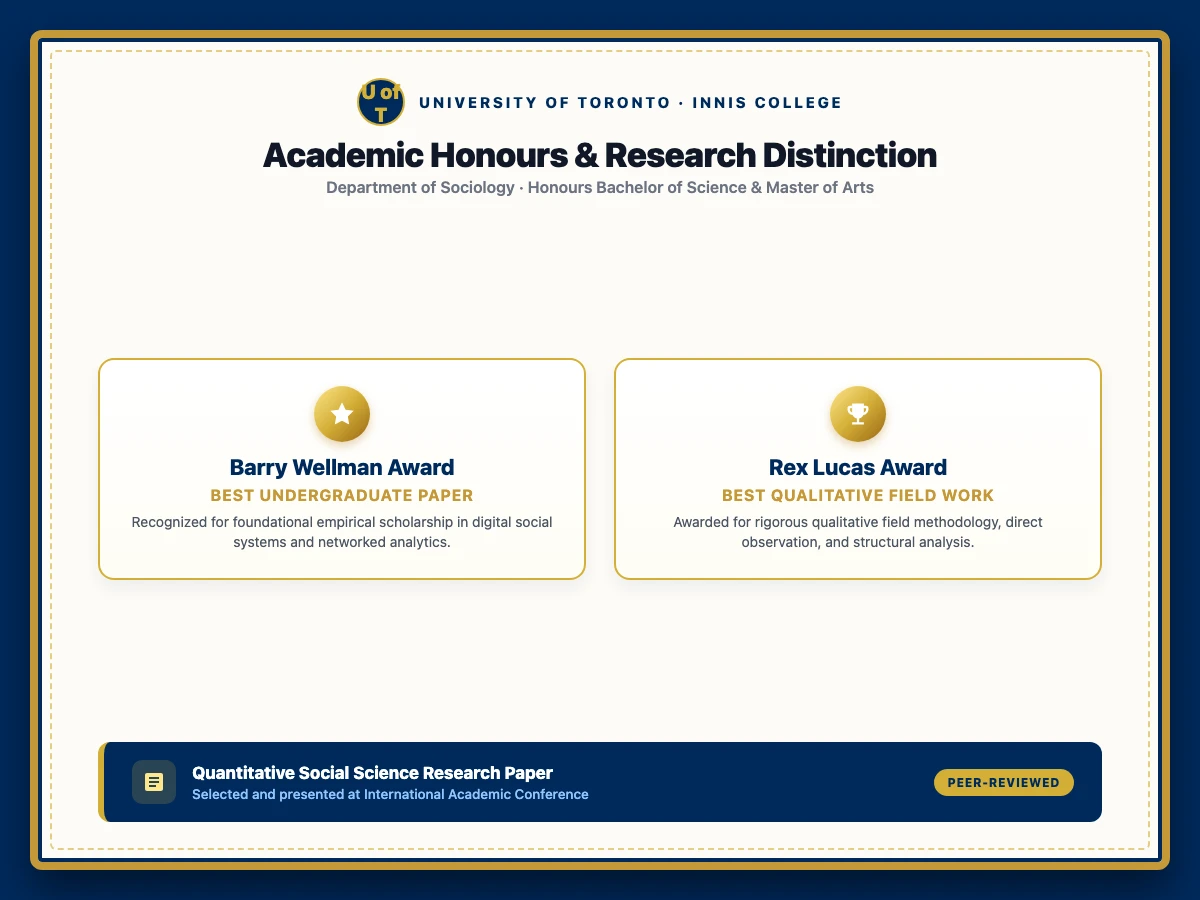
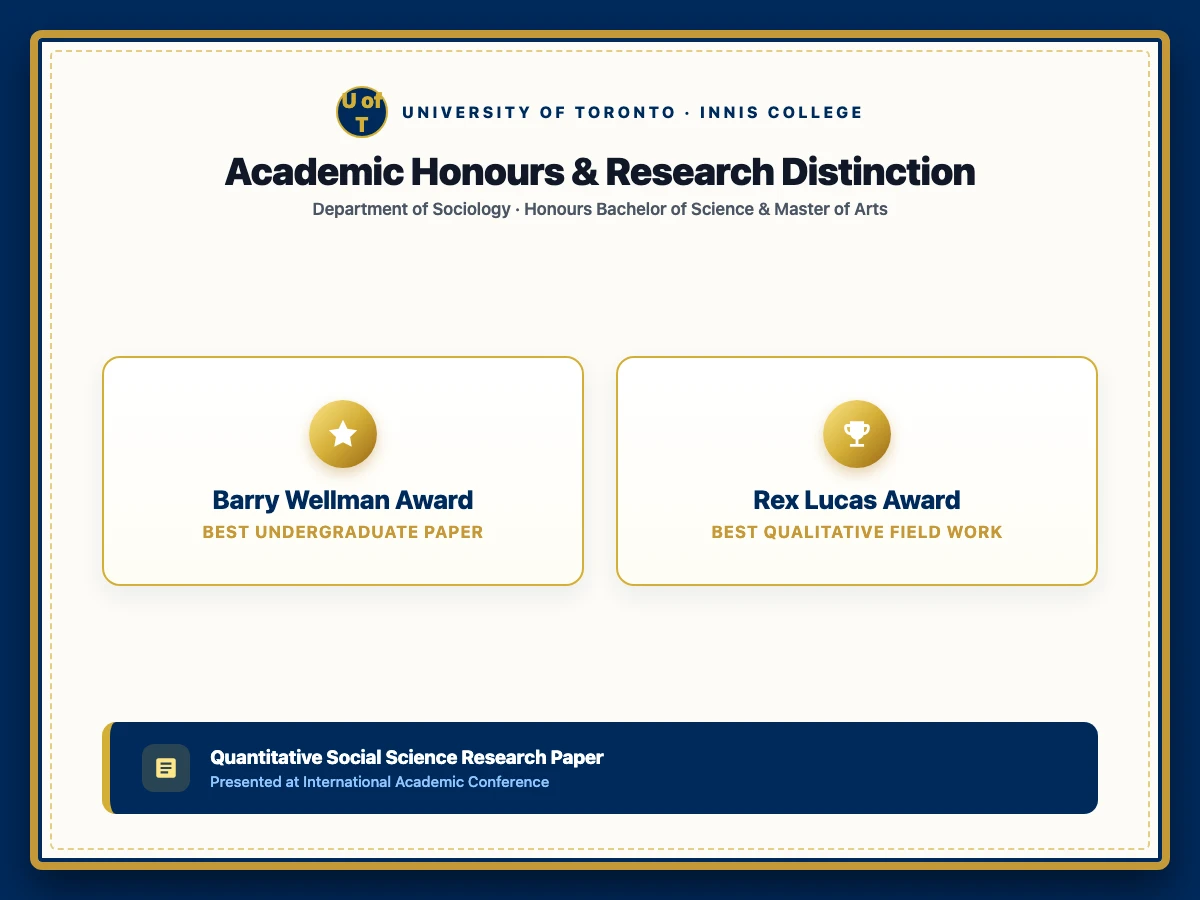
fix(experiment): remove award descriptions and peer-reviewed badge from uoft-awards, remove lightbox figcaption

Changed region(s): [[0.0617, 0.3733, 0.925, 0.6533], [0.0617, 0.7778, 0.925, 0.9333], [0.185, 0.0622, 0.8325, 0.2489]]

diff --git a/app.js b/app.js
@@ -75,7 +75,7 @@
     { id: 'jee', when: '2009 – 2011', place: 'Toronto · U of T', icon: 'cap', logo: 'logo-uoft', c: '#002A5C', at: [400, 1420], lift: 175, name: 'Innis College · U of T',
       title: 'Where empirical thinking met systems architecture.',
       txt: 'At the <b>University of Toronto (Innis College)</b>, I completed my Honours B.Sc. and M.A. in Sociology while working as a Media Analyst at the <b>Ontario Cabinet Office</b>. Studying how complex social systems behave—and how to measure them rigorously—laid the foundation for everything that followed.',
-      photos: [['uoft-uc', 'Innis College · U of T'], ['uoft-awards', 'Barry Wellman Award for Best Undergraduate Paper. Rex Lucas Award for best Qualitative Field Work. Quantitative social science paper presented at International Conference.']],
+      photos: [['uoft-uc', 'Innis College · U of T'], ['uoft-awards', '']],
       pois: [[-170, -120, 'check', 'Honours B.Sc. & M.A. at Innis College.']] },
     { id: 'app', when: '2011 – 2018', place: 'Ottawa · Tunney’s Pasture', icon: 'book', logo: 'logo-statcan', c: '#C8102E', at: [960, 960], lift: 150, name: 'Analyst to Unit Head',
       title: 'Entering R.H. Coats & rising from Analyst to Unit Head.',
@@ -181,7 +181,7 @@
     ['Ship to production', 'Live URL in days (1–7d Light, 8–14d Medium).', '#FFD23F'],
     ['Write the reflection', 'Every build feeds back into the digital brain.', '#9FD3FF']
   ];
-  const img = k => `v2/s/${k}.webp?v=20261024i`;
+  const img = k => `v2/s/${k}.webp?v=20261024j`;
 
   /* ---------- smooth scroll ---------- */
   const lenis = (!reduce && window.Lenis && innerWidth >= 860 && !matchMedia('(pointer: coarse)').matches) ? new Lenis({ lerp: .09, smoothWheel: true, wheelMultiplier: .9 }) : null;
@@ -893,7 +893,7 @@ void main() {
     const st = alt || STOPS[i]; lbN = st.photos.length;
     lb.style.setProperty('--g', grad(st.c));
     $('#lbWhen').textContent = `${st.when} · ${st.place}`; $('#lbTitle').textContent = st.title;
-    lbTrack.innerHTML = st.photos.map(([src, cap], n) => `<figure class="lb-slide" style="margin:0"><div class="frame" style="--rot:${[-1.6, 1.2, -.8][n % 3]}deg">${src ? `<img src="${img(src)}" alt="${cap}">` : `<div class="empty"><svg viewBox="0 0 24 24">${ICONS.camera}</svg>Photo coming soon</div>`}<figcaption>${cap}</figcaption></div></figure>`).join('');
+    lbTrack.innerHTML = st.photos.map(([src, cap], n) => `<figure class="lb-slide" style="margin:0"><div class="frame" style="--rot:${[-1.6, 1.2, -.8][n % 3]}deg">${src ? `<img src="${img(src)}" alt="${cap || ''}">` : `<div class="empty"><svg viewBox="0 0 24 24">${ICONS.camera}</svg>Photo coming soon</div>`}${cap ? `<figcaption>${cap}</figcaption>` : ''}</div></figure>`).join('');
     lb.classList.add('open'); lenis && lenis.stop(); document.documentElement.style.overflow = 'hidden';
     requestAnimationFrame(() => { lbTrack.scrollLeft = start * lbTrack.clientWidth; lbCount.textContent = `${start + 1} / ${lbN}`; $('#lbX').focus({ preventScroll: true }); });
   }
@@ -913,7 +913,7 @@ void main() {
       <div class="jc-bd"><h3>${st.title}</h3><p class="txt">${st.txt}</p><button type="button" class="jc-more" aria-expanded="false">Read more</button>
       ${st.share ? `<div class="jc-share"><a href="${LI}" target="_blank" rel="noopener"><i style="background:#C4622D"><svg viewBox="0 0 24 24">${ICONS.rocket}</svg></i><div>peji.ca<span>Independent Digital Practice & Sovereign Local AI</span></div><em>↗</em></a><a href="${IG}" target="_blank" rel="noopener"><i style="background:#13233A"><svg viewBox="0 0 24 24">${ICONS.gear}</svg></i><div>@p3ji on GitHub<span>40+ prototypes, DDI 3.3 tools & open-source builds</span></div><em>↗</em></a></div>` : ''}
       ${st.stats ? `<ul class="jc-stats">${st.stats.map(([b, t]) => `<li><b>${b}</b><span>${t}</span></li>`).join('')}</ul>` : ''}
-      ${st.photos && st.photos.length ? `<div class="jc-gal"><p>Gallery</p><div style="--n:${st.photos.length}">${st.photos.map(([src, cap], k) => `<button type="button" class="jc-ph" data-lb="${k}" aria-label="Open photo: ${cap}" style="--r:${[-3, 2, -1.5][k % 3]}deg"><span class="ph${src ? '' : ' empty'}">${src ? `<img src="${img(src)}" alt="" loading="lazy">` : `<svg viewBox="0 0 24 24">${ICONS.camera}</svg>`}</span><small>${cap}</small></button>`).join('')}</div></div>` : ''}
+      ${st.photos && st.photos.length ? `<div class="jc-gal"><p>Gallery</p><div style="--n:${st.photos.length}">${st.photos.map(([src, cap], k) => `<button type="button" class="jc-ph" data-lb="${k}" aria-label="${cap ? `Open photo: ${cap}` : 'Open photo'}" style="--r:${[-3, 2, -1.5][k % 3]}deg"><span class="ph${src ? '' : ' empty'}">${src ? `<img src="${img(src)}" alt="" loading="lazy">` : `<svg viewBox="0 0 24 24">${ICONS.camera}</svg>`}</span>${cap ? `<small>${cap}</small>` : ''}</button>`).join('')}</div></div>` : ''}
       ${st.work ? `<div class="jc-act">${CASE_OF[st.work] ? `<button type="button" class="cbtn" data-case="${CASE_OF[st.work]}">View case study<svg viewBox="0 0 24 24">${ICONS.arrowR}</svg></button>` : `<a class="cbtn" href="${st.work}" target="_blank" rel="noopener">${st.workLabel || 'View work'}<svg viewBox="0 0 24 24">${ICONS.arrowR}</svg></a>`}</div>` : ''}</div>`;
   }
   function showCard(i) {

diff --git a/feedback.md b/feedback.md
@@ -4,6 +4,17 @@
 <!-- Use the in-app Review widget to drop pins and save changes here -->
 
 ## Resolved
+- [x] **Item #65 (2026-10-24)** (`figure.lb-slide:nth-of-type(2)`)
+  - **Requested Change**:
+    1) Don't need descriptions for the award on `uoft-awards.webp`.
+    2) Remove the "peer reviewed" label on `uoft-awards.webp`.
+    3) Remove `<figcaption>` below the slide in the lightbox.
+  - **Resolution**:
+    1) Regenerated [v2/s/uoft-awards.webp](file:///Users/pushp/Documents/Projects/visualportfolio/v2/s/uoft-awards.webp) with descriptions removed from Barry Wellman Award and Rex Lucas Award cards, leaving clean, prominent award titles and category subtitles.
+    2) Removed the "Peer-Reviewed" badge from the conference paper banner in [v2/s/uoft-awards.webp](file:///Users/pushp/Documents/Projects/visualportfolio/v2/s/uoft-awards.webp).
+    3) Updated Stop 0 photo definition in [app.js](file:///Users/pushp/Documents/Projects/visualportfolio/app.js) to empty caption and updated lightbox slide template so `<figcaption>` is not rendered when caption is empty.
+    4) Bumped image cache buster to `v=20261024j`.
+
 - [x] **Item #64 (2026-10-24)** (`#radio` & `#np`)
   - **Requested Change**: Add user-provided audio track (`uploaded_media_1792864893592.mp3` - 3:53 ambient lo-fi piano track) to replace procedural synthesizer on the site.
   - **Resolution**:
